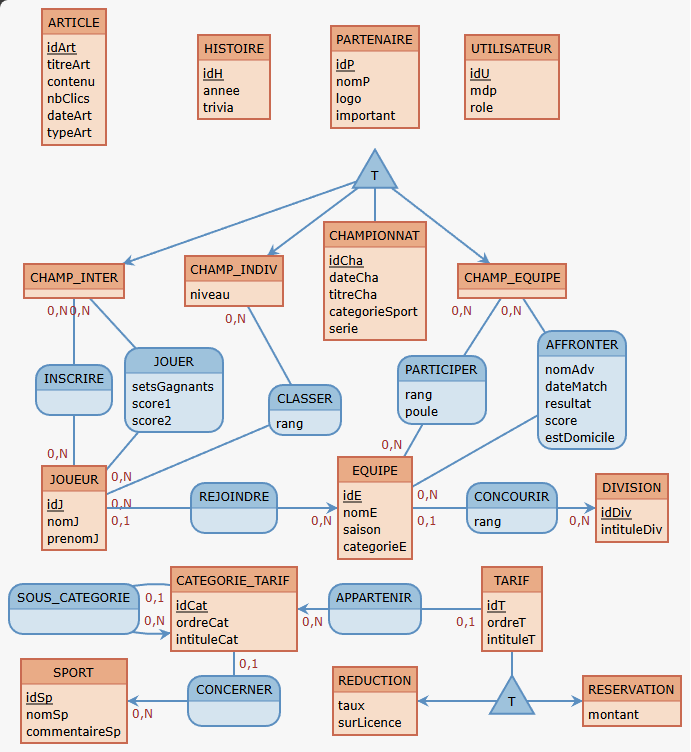
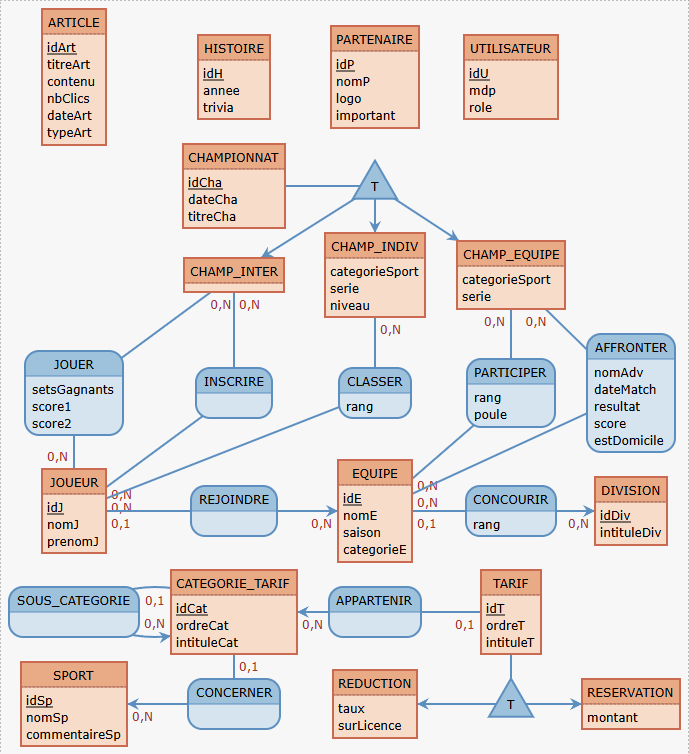
Modification sur les tournois

diff --git a/analyse/mld.md b/analyse/mld.md
@@ -3,7 +3,7 @@ HISTOIRE[<u>idH</u>, annee, trivia]
 PARTENAIRE[<u>idP</u>, nomP, logo, important]  
 UTILISATEUR[<u>idU</u>, mdp, role]  
 
-CHAMP_INTER[<u>idCha</u>, dateCha, titreCha, categorieSport, serie]  
+CHAMP_INTER[<u>idCha</u>, dateCha, titreCha]  
 CHAMP_INDIV[<u>idCha</u>, dateCha, titreCha, categorieSport, serie, niveau]  
 JOUEUR[<u>idJ</u>, nomJ, prenomJ, #idE]  
 INSCRIRE[<u>#idCha, #idJ</u>]  
